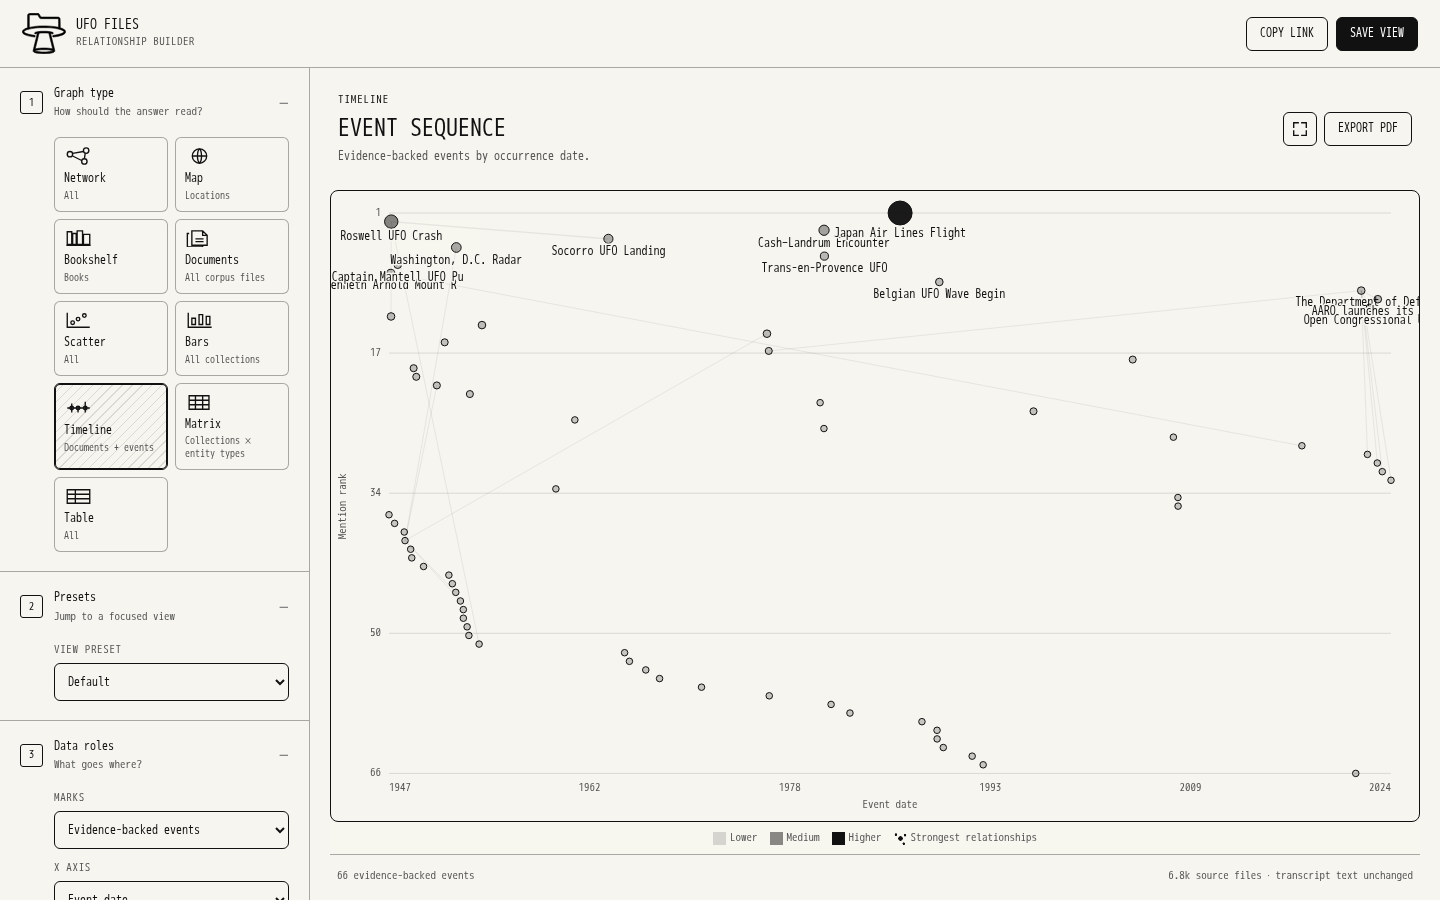
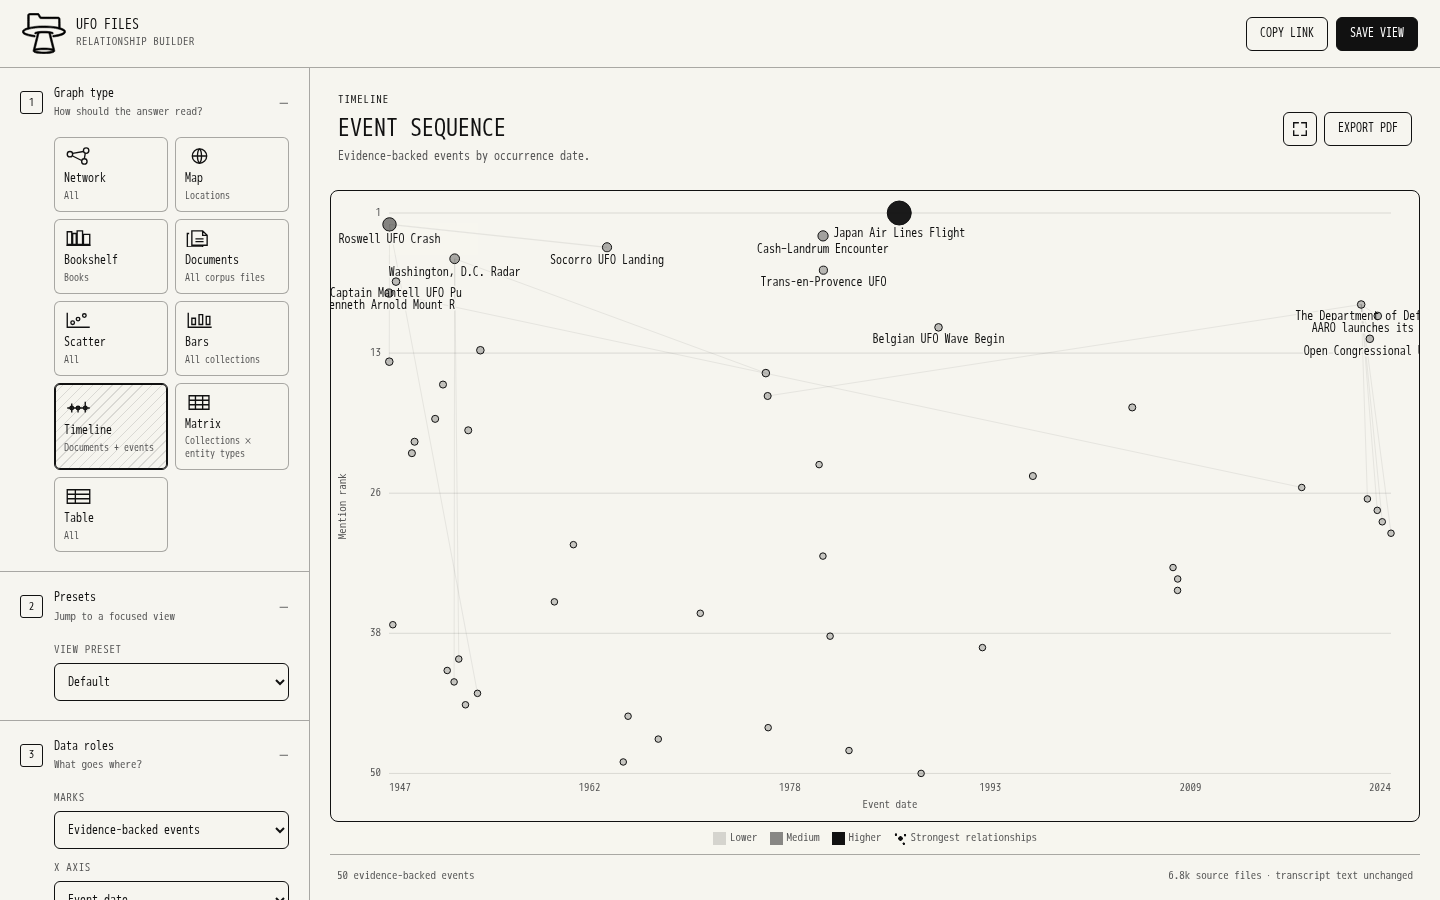
Default Event Sequence to 50 marks (#93)

diff --git a/app.js b/app.js
@@ -96,7 +96,7 @@ const VIEW_DEFAULTS = {
   book: { size: "contextAdjustedMentions", color: "intensity", labels: "all", limit: 20 },
   document: { size: "words", color: "source", labels: "top", documentSearch: "" },
   bars: { aggregation: "source", y: "words", color: "intensity" },
-  timeline: { timelineRole: "event", x: "startDate", y: "mentionRank", size: "documentCount", color: "eventType", categories: ["date"], labels: "top", limit: 500, relationshipLayer: "always" },
+  timeline: { timelineRole: "event", x: "startDate", y: "mentionRank", size: "documentCount", color: "eventType", categories: ["date"], labels: "top", limit: 50, relationshipLayer: "always" },
   matrix: { matrixColumns: "category", color: "intensity" },
   table: { tableRole: "entity", tableColumns: ["name", "category", "mentions", "documentCount", "sourceCount"], tableSort: "mentions", tableDirection: "desc", tableSearch: "", limit: 60 }
 };
@@ -1600,7 +1600,7 @@ function renderTimeline() {
       }).filter(Boolean)
     : state.catalog.documents.filter(item => item.documentDate && sourceMatches(item.source)));
   const data = candidates.sort((a, b) => state.config.timelineRole === "event"
-    ? new Date(a.startDate) - new Date(b.startDate) || a.title.localeCompare(b.title)
+    ? b.mentionCount - a.mentionCount || b.documentCount - a.documentCount || b.confidence - a.confidence
     : (b[state.config.y] || 0) - (a[state.config.y] || 0)).slice(0, state.config.limit);
   if (!data.length) return showEmpty();
   if (state.config.timelineRole === "event") {

diff --git a/tests/test_app.js b/tests/test_app.js
@@ -633,7 +633,8 @@ test("timeline defaults to evidence-backed event dates instead of cataloging tim
   assert.match(source, /item\.startDate \|\| item\.documentDate/);
   assert.match(source, /Evidence-backed events by occurrence date/);
   assert.match(source, /\["createdAt", "documentDate", "startDate"\]\.includes\(xKey\)/);
-  assert.match(source, /labels: "top", limit: 500/);
+  assert.match(source, /labels: "top", limit: 50/);
+  assert.match(source, /b\.mentionCount - a\.mentionCount \|\| b\.documentCount - a\.documentCount/);
   assert.match(source, /const topLabelIds = new Set\(\[\.\.\.data\]/);
   assert.match(source, /item\.mentionRank = index \+ 1/);
   assert.match(source, /mentionCount: "Event mentions"/);
